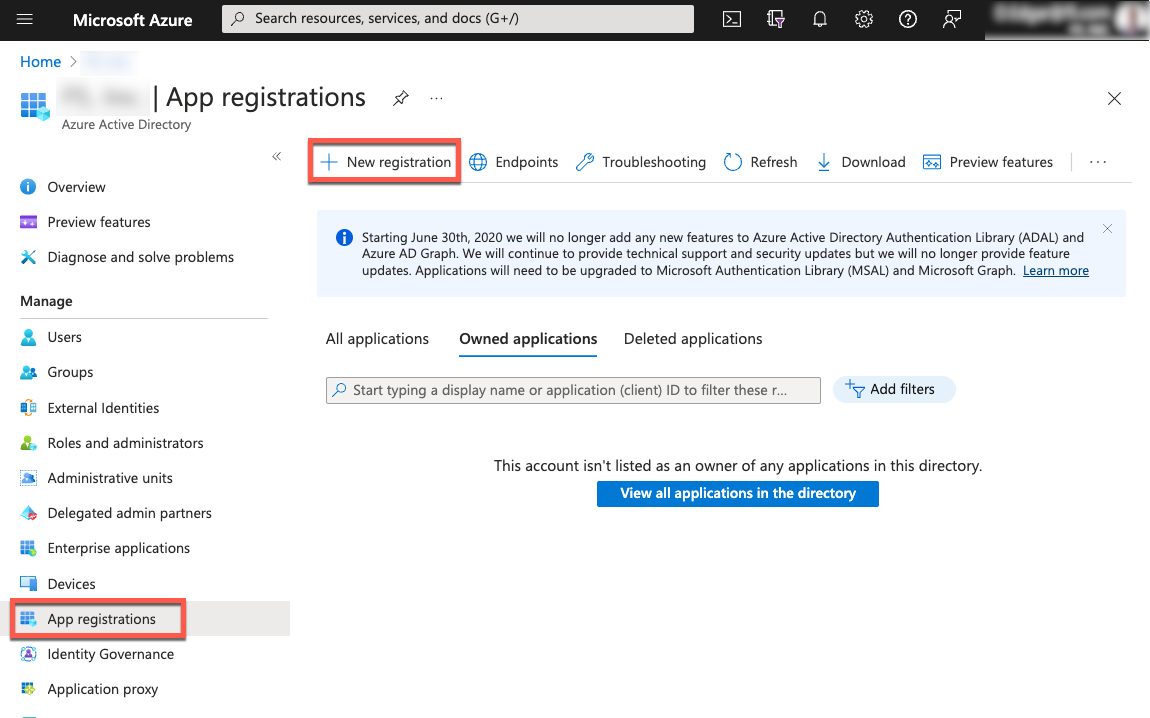
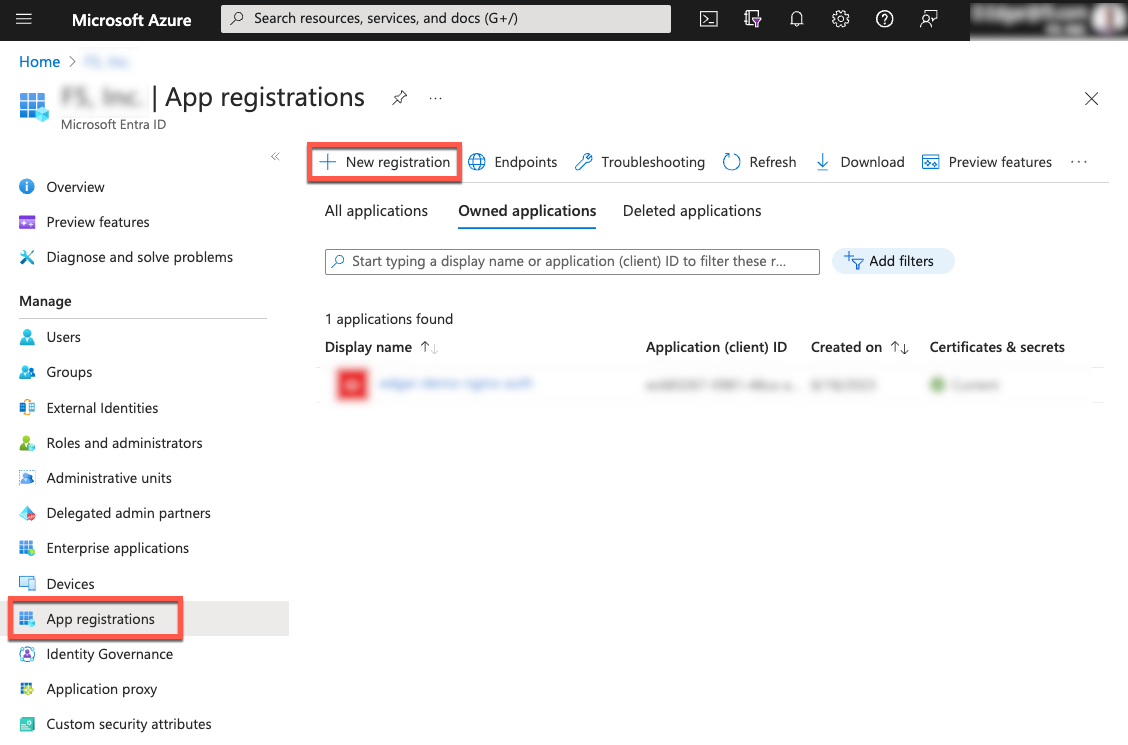
Updating Azure AD to Microsoft Entra ID

diff --git a/README.md b/README.md
@@ -13,8 +13,8 @@ This solution makes modest use of automation for the deployment. However, there 
 * Docker Desktop
 * Terraform
 * A GitHub account
-* An Azure account (we will be using Azure AD as our OIDC Identity Provider)
-* Azure Active Directory configured with user accounts
+* An Azure account (we will be using Microsoft Entra ID ([formerly Azure Active Directory](https://learn.microsoft.com/en-us/azure/active-directory/fundamentals/new-name)) as our OIDC Identity Provider)
+* Microsoft Entra ID configured with user accounts
 * Git
 * An F5 Distributed Cloud account
 
@@ -65,35 +65,35 @@ In this solution, we will be leveraging the authorization code flow, as depicted
 
 ![Auth Flow Diagram](images/2212.png)
 
-To do this, we need to configure Azure AD to assume the role of Identity Provider (IDP).
+To do this, we need to configure Microsoft Entra ID to assume the role of Identity Provider (IDP).
 
-1. Log into the [Azure Portal](https://portal.azure.com/) and select “Active Directory”:
+1. Log into the [Azure Portal](https://portal.azure.com/) and select "Microsoft Entra ID":
 
-    ![Active Directory](images/2207.png)
+    ![Microsoft Entra ID](images/2207.png)
 
-2. Click “App registrations” then “New registration”:
+2. Click "App registrations" then "New registration":
 
     ![New registration](images/2201.png)
 
-3. Give the application a name. This is the name that will appear in the Microsoft authorization request dialog when we test the solution later on. Select “Web” for Redirect URI type, and specify a redirect URI for this application. The URI must exactly match the hostname and port of the F5 Distributed Cloud HTTP Load Balancer that will be created when we use Terraform to deploy in a later step. The format needs to be: `https://your-fqdn-here:443/_codexch`
+3. Give the application a name. This is the name that will appear in the Microsoft authorization request dialog when we test the solution later on. Select "Web" for Redirect URI type, and specify a redirect URI for this application. The URI must exactly match the hostname and port of the F5 Distributed Cloud HTTP Load Balancer that will be created when we use Terraform to deploy in a later step. The format needs to be: `https://your-fqdn-here:443/_codexch`
 
     ![Application name](images/2202.png)
 
 4. Click "Register".
 
-5. Click “Certificates & secrets”, then “New client secret”:
+5. Click "Certificates & secrets", then "New client secret":
 
     ![New client secret](images/2208.png)
 
-6. In the resulting dialog, enter any value for the description, and choose an appropriate expiration date. Click “Add”:
+6. In the resulting dialog, enter any value for the description, and choose an appropriate expiration date. Click "Add":
 
     ![Description and expiration](images/2211.png)
 
-7. The new client secret will have been created. Copy the secret’s “Value” and keep it somewhere safe for a later step. **_Do this now - you will not have the ability to retrieve it later._**
+7. The new client secret will have been created. Copy the secret’s "Value" and keep it somewhere safe for a later step. **_Do this now - you will not have the ability to retrieve it later._**
 
     ![Secret value](images/2204.png)
 
-8. Click “Overview”. Locate and copy the **Application (client) ID** and **Directory (tenant) ID** values for use in a later step:
+8. Click "Overview". Locate and copy the **Application (client) ID** and **Directory (tenant) ID** values for use in a later step:
 
     ![Overview](images/2213.png)
 
@@ -101,7 +101,7 @@ To do this, we need to configure Azure AD to assume the role of Identity Provide
 
 Earlier I mentioned that we would be configuring the cluster and deploying the application and NGINX Plus proxy. We will use Terraform to do this, with the help of another GitHub repository.
 
-1. In the F5 Distributed Cloud console, create a new application namespace. Application namespaces create a logical separation for enhanced security between applications. This new namespace will be for the Sentence app and the NGINX Plus OIDC auth service. For example, “demo-nginx-auth”.
+1. In the F5 Distributed Cloud console, create a new application namespace. Application namespaces create a logical separation for enhanced security between applications. This new namespace will be for the Sentence app and the NGINX Plus OIDC auth service. For example, "demo-nginx-auth".
 
 2. In the F5 Distributed Cloud console, [create a Service Credential](https://docs.cloud.f5.com/docs/how-to/user-mgmt/credentials) that has the admin role for this newly created namespace.
 
@@ -123,11 +123,11 @@ Earlier I mentioned that we would be configuring the cluster and deploying the a
 
     2. Update line **3** with the namespace name that you created in step 1.
 
-    3. Update lines **5-8** with GitHub container registry information from the “Building the NGINX Plus Container Image” section of this guide.
+    3. Update lines **5-8** with GitHub container registry information from the "Building the NGINX Plus Container Image" section of this guide.
 
-    4. Update lines **10** and **13**. Change the “example.com” to a custom domain name you own that has been delegated to F5 Distributed Cloud. See [Domain Delegation](https://docs.cloud.f5.com/docs/how-to/app-networking/domain-delegation) for details on how to set this up in your tenant.
+    4. Update lines **10** and **13**. Change the "example.com" to a custom domain name you own that has been delegated to F5 Distributed Cloud. See [Domain Delegation](https://docs.cloud.f5.com/docs/how-to/app-networking/domain-delegation) for details on how to set this up in your tenant.
 
-        > **NOTE:** The value on line **13 _must_** match the fqdn you used in step 3 of the “Create the Azure OIDC Identity Provider” section of this guide. If you need to, you can change the URL you set in that step using the Azure Portal.
+        > **NOTE:** The value on line **13 _must_** match the fqdn you used in step 3 of the "Create the Azure OIDC Identity Provider" section of this guide. If you need to, you can change the URL you set in that step using the Azure Portal.
 
     5. By default, the Sentence app will deploy to a Kubernetes cluster in the Dallas, Texas (U.S.) region, and the NGINX Plus OIDC auth service to a Kubernetes cluster in Seattle, Washington (U.S.). If you would like to update these, update lines **11** and **14** in your **terraform.tfvars** using values from this list.
 
@@ -139,11 +139,11 @@ To secure the Sentence app and API, NGINX Plus needs to be configured variables 
 
 1. In your terraform.tfvars file, make the following updates:
 
-    1. On line **16**, replace **_&lt;Azure Tenant (directory) ID&gt;_** with the value from Step 8 in the “Create the Azure OIDC Identity Provider” section earlier in this guide.
+    1. On line **16**, replace **_&lt;Azure Tenant (directory) ID&gt;_** with the value from Step 8 in the "Create the Azure OIDC Identity Provider" section earlier in this guide.
 
-    2. On line **17**: Replace **_&lt;Azure Application (client) ID&gt;_** with the value from Step 8 in the “Create the Azure OIDC Identity Provider” section earlier in this guide.
+    2. On line **17**: Replace **_&lt;Azure Application (client) ID&gt;_** with the value from Step 8 in the "Create the Azure OIDC Identity Provider" section earlier in this guide.
 
-    3. On line **18**: Replace **_&lt;Azure Client Secret Value&gt;_** with the value from Step 7 in the “Create the Azure OIDC Identity Provider” section earlier in this guide.
+    3. On line **18**: Replace **_&lt;Azure Client Secret Value&gt;_** with the value from Step 7 in the "Create the Azure OIDC Identity Provider" section earlier in this guide.
 
     4. Optionally, for extra security, you can update the random phrase on line **19** used as an OIDC hmac key to ensure nonce values used in the authorization flow are unpredictable.
 
@@ -191,7 +191,7 @@ We will run Terraform plan and apply in 2 different phases: One to create the F5
     terraform apply -target=module.xc-re-vk8s-kubeconfig
     ```
 
-    >**NOTE:** When prompted to confirm the apply step, type “yes”.
+    >**NOTE:** When prompted to confirm the apply step, type "yes".
 
 5. Now that the cluster has been provisioned, run a Terraform plan to review the remainder of the solution to be deployed:
 
@@ -212,7 +212,7 @@ We will run Terraform plan and apply in 2 different phases: One to create the F5
     terraform apply
     ```
 
-    > **NOTE:** When prompted to confirm the apply step, type “yes”.
+    > **NOTE:** When prompted to confirm the apply step, type "yes".
 
 8. If there are no errors, the entire solution is now deployed.
 
@@ -230,23 +230,23 @@ We will run Terraform plan and apply in 2 different phases: One to create the F5
 
 1. Log into the F5 Distributed Cloud console.
 
-2. Navigate to “Distributed Apps”.
+2. Navigate to "Distributed Apps".
 
 3. Select the namespace you created earlier in the top left menu.
 
-4. Click on “Applications” -> “Virtual K8s”.
+4. Click on "Applications" -> "Virtual K8s".
 
-5. Note that a cluster has been created and is showing a “Ready” status:
+5. Note that a cluster has been created and is showing a "Ready" status:
 
     ![Deployment ready](images/2215.png)
 
 6. Click on the cluster link. Here you can examine the Services, Deployment objects, and Pods that were deployed to the cluster.
 
-7. Click “Load Balancers” -> “HTTP Load Balancers”. Click on each of the Load Balancers that were created and examine the metrics available. Note that the deployed applications are healthy.
+7. Click "Load Balancers" -> "HTTP Load Balancers". Click on each of the Load Balancers that were created and examine the metrics available. Note that the deployed applications are healthy.
 
 ### Cleanup
 
-A benefit of using Terraform is that removing all the resources it created in F5 Distributed Cloud is just as easy as creating them. For this, use Terraform destroy, and type “yes” when prompted:
+A benefit of using Terraform is that removing all the resources it created in F5 Distributed Cloud is just as easy as creating them. For this, use Terraform destroy, and type "yes" when prompted:
 
 ```shell
 terraform destroy
